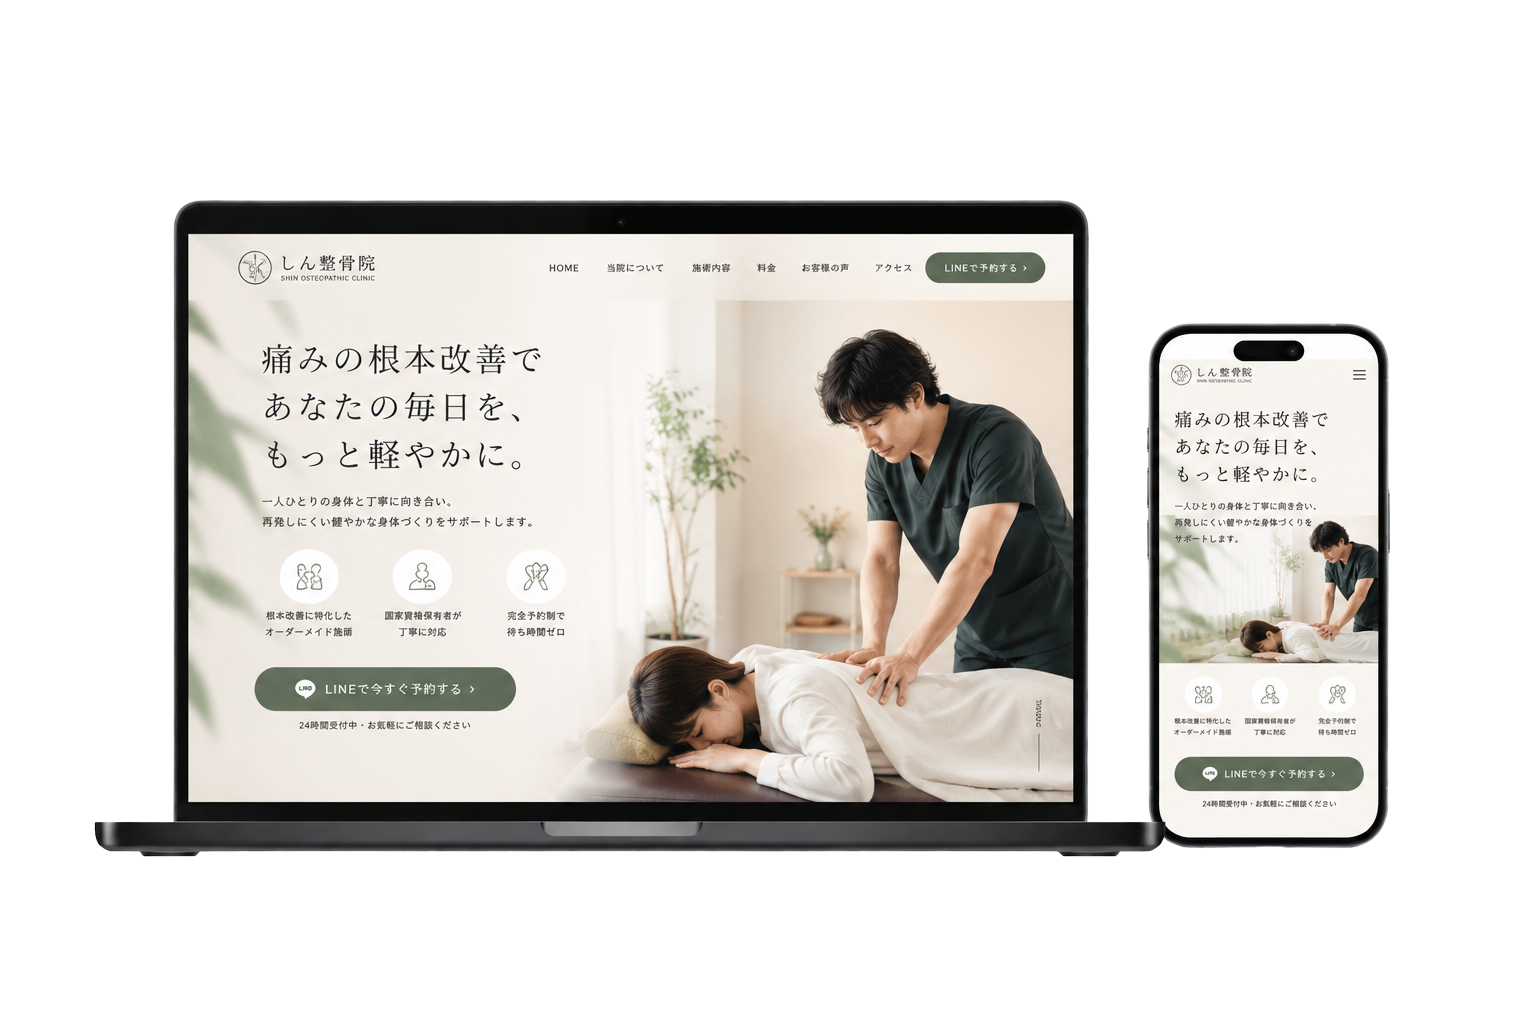
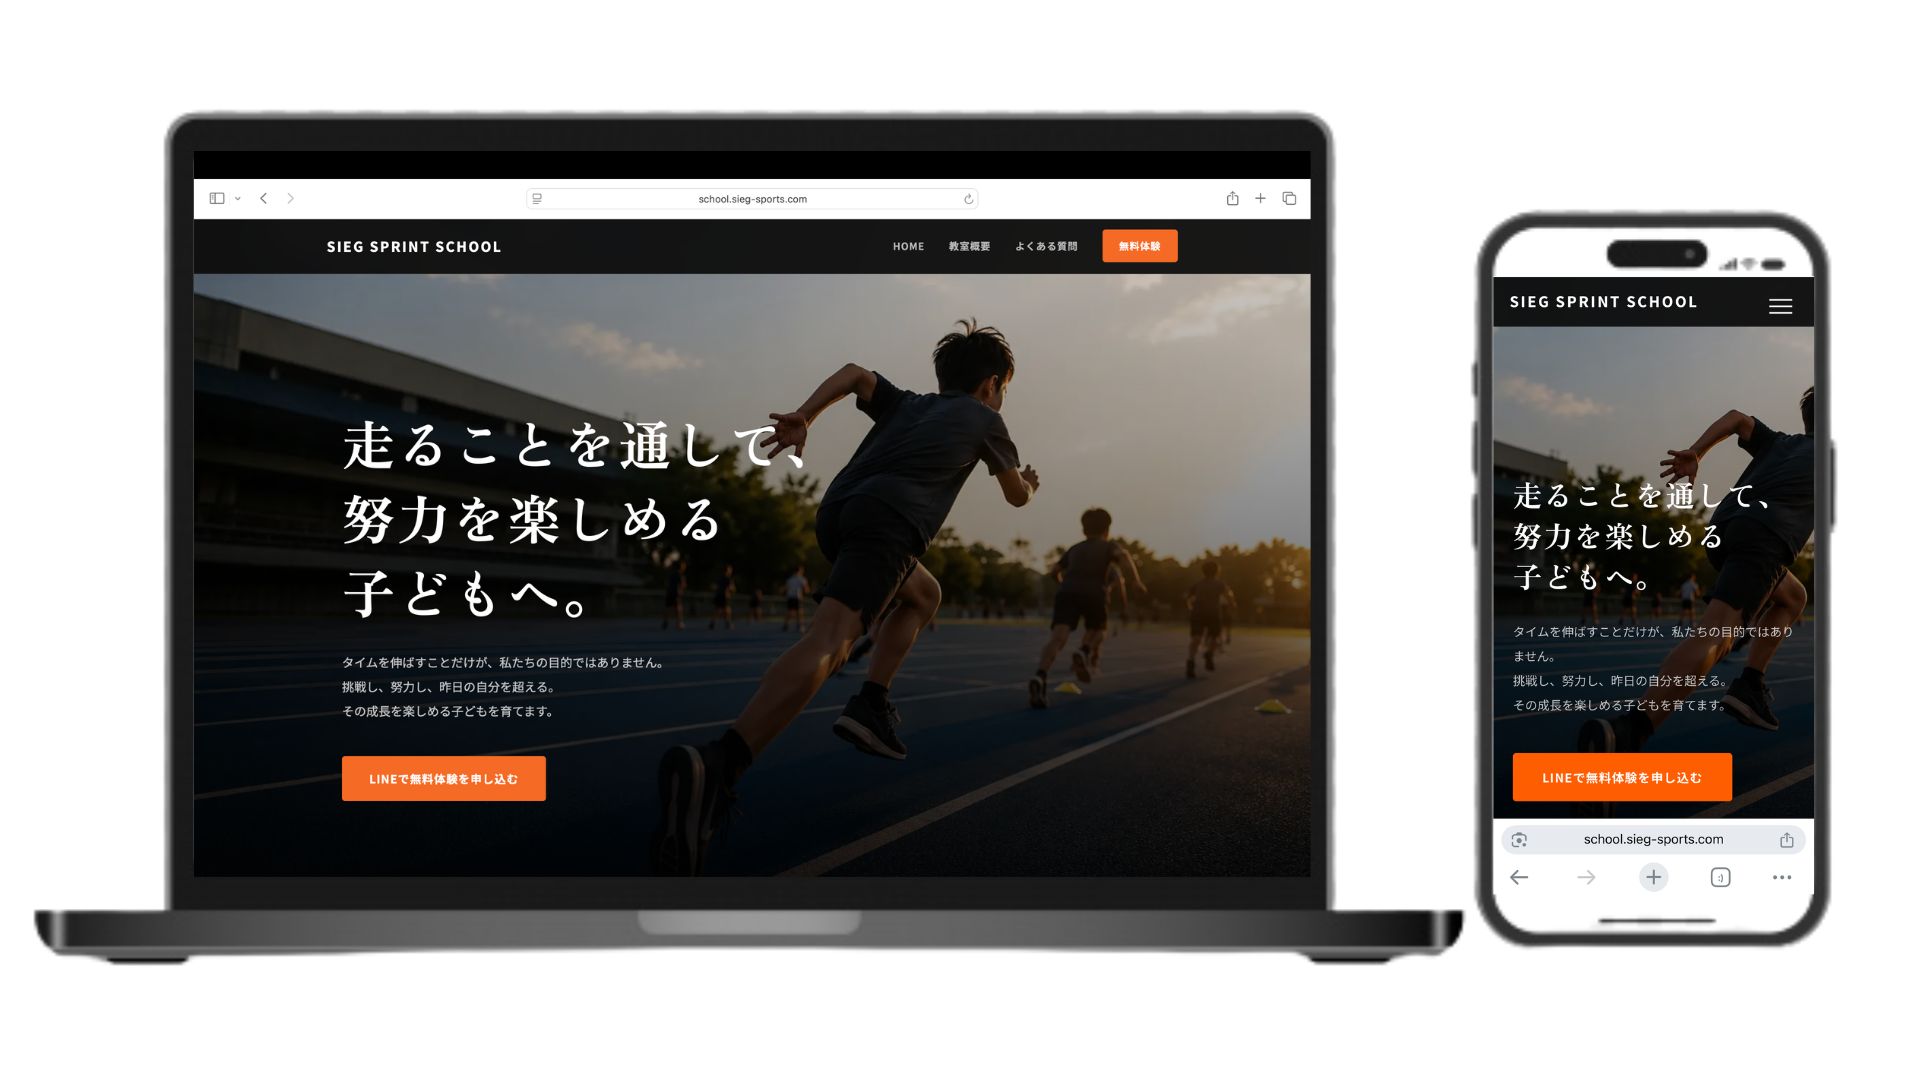
change image

diff --git a/public/works-school.html b/public/works-school.html
@@ -1,0 +1,257 @@
+<!DOCTYPE html>
+<html lang="ja">
+<head>
+  <meta charset="UTF-8">
+  <!-- Google tag (gtag.js) -->
+<script async src="https://www.googletagmanager.com/gtag/js?id=G-X4SGRPRGL5"></script>
+<script>
+  window.dataLayer = window.dataLayer || [];
+  function gtag(){dataLayer.push(arguments);}
+  gtag('js', new Date());
+
+  gtag('config', 'G-X4SGRPRGL5');
+</script>
+  <meta name="viewport" content="width=device-width, initial-scale=1.0">
+
+  <title>スプリントスクールWebサイト制作実績 | SIEG CREATE</title>
+  <meta name="description" content="小中学生向けスプリントスクールSIEG SPORTS Sprint Schoolの公式Webサイト制作実績です。">
+
+  <link rel="stylesheet" href="css/style.css">
+</head>
+
+<body>
+
+<header class="site-header">
+  <a href="index.html" class="logo">
+    <span>SIEG CREATE</span>
+  </a>
+
+  <nav class="nav">
+    <a href="/#service">Service</a>
+    <a href="/#works">Works</a>
+    <a href="/#about">About</a>
+    <a href="/#contact">Contact</a>
+  </nav>
+
+  <button class="menu-toggle" type="button">
+    <span></span>
+    <span></span>
+  </button>
+
+  <a href="contact.html" class="header-btn">無料相談</a>
+</header>
+
+<main>
+
+  <section class="work-detail-hero">
+    <p class="section-label">WORKS / WEB SITE</p>
+
+    <h1>
+      WEB
+      SITE
+    </h1>
+
+    <p class="work-detail-lead">
+      スクールの魅力と成長を伝える<br>
+      スプリントスクール公式Webサイト
+    </p>
+    
+    <p class="work-detail-text">
+      小中学生向けスプリントスクールの公式Webサイトを制作しました。<br>
+      スクールの特徴、指導方針、成長実績、保護者の声、よくある質問をまとめ、
+      初めて訪れた保護者の方が安心して無料体験へ申し込めるサイトを目指しました。
+    </p>
+    <div class="work-detail-image">
+      <img src="images/work-03.png" alt="SIEG SPORTS Sprint School Webサイト">
+    </div>
+  </section>
+
+  <section class="work-detail-section">
+    <p class="section-label">PROJECT</p>
+
+    <h2>プロジェクト概要</h2>
+
+    <p class="work-detail-text">
+      SIEG SPORTSスプリントスクールは、小中学生を対象としたスプリントスクールです。<br><br>
+      速く走るための技術を身につけるだけでなく、
+      目標を決め、努力し、成長を実感する楽しさを伝えることを大切にしています。<br><br>
+      スクールの特徴や指導方針、実際のタイム向上、保護者の声、教室情報を整理し、
+      スクールの魅力と安心感が伝わる構成にしています。
+    </p>
+  </section>
+
+  <section class="work-detail-section mint">
+    <p class="section-label">CHALLENGE</p>
+
+    <h2>課題</h2>
+
+    <div class="problem-grid">
+      <div class="problem-card">スクール独自の特徴が十分に伝わっていない</div>
+      <div class="problem-card">子どもがどのように成長できるのか分かりにくい</div>
+      <div class="problem-card">保護者が安心して検討できる情報が不足している</div>
+      <div class="problem-card">教室内容を探しにくい</div>
+      <div class="problem-card">無料体験までの導線が分かりにくい</div>
+    </div>
+  </section>
+
+  <section class="work-detail-section">
+    <p class="section-label">SOLUTION</p>
+
+    <h2>実装内容</h2>
+
+    <div class="feature-grid">
+      <div class="feature-card">
+        <span>01</span>
+        <h3>ファーストビュー</h3>
+        <p>子どもたちが走る写真を大きく使い、スクールの明るさや躍動感が伝わるトップ画面を設計。</p>
+      </div>
+      
+      <div class="feature-card">
+        <span>02</span>
+        <h3>スクール紹介</h3>
+        <p>スクールの考え方や指導方針、対象となる子どもについて分かりやすく整理。</p>
+      </div>
+      
+      <div class="feature-card">
+        <span>03</span>
+        <h3>3つの特徴</h3>
+        <p>SIEG SPORTS監修、成長記録システム、毎月の50m測定という独自の強みを掲載。</p>
+      </div>
+      
+      <div class="feature-card">
+        <span>04</span>
+        <h3>成長実績</h3>
+        <p>実際の50mタイムの変化を数字で掲載し、子どもたちの成長を具体的に可視化。</p>
+      </div>
+      
+      <div class="feature-card">
+        <span>05</span>
+        <h3>保護者の声</h3>
+        <p>実際に通う子どもの保護者から寄せられた声を掲載し、検討時の安心感につながる構成に。</p>
+      </div>
+      
+      <div class="feature-card">
+        <span>06</span>
+        <h3>無料体験導線</h3>
+        <p>各セクションから無料体験へ進める導線を設け、迷わず申し込みできる流れを整備。</p>
+      </div>
+    </div>
+  </section>
+
+  <section class="work-detail-section mint">
+    <p class="section-label">DESIGN</p>
+
+    <h2>デザインコンセプト</h2>
+
+    <p class="work-detail-text">
+        「信頼感」「上質さ」「成長」をテーマに設計しました。<br><br>
+        写真を大きく見せるレイアウトと余白を活かし、スポーツスクールらしい躍動感を残しながらも、
+        落ち着きと高級感のあるデザインに仕上げています。
+        
+    </p>
+  </section>
+
+  <section class="work-detail-section">
+    <p class="section-label">POINT</p>
+
+    <h2>制作ポイント</h2>
+
+    <p class="work-detail-text">
+      スクールの雰囲気だけではなく、実際の成長が伝わることを重視しました。<br><br>
+      指導方針、スクールの特徴、50mのタイム向上、保護者の声、よくある質問までを一つのサイトに集約し、
+      初めて訪れた方がスクールについて順番に理解できる導線を設計しています。<br><br>
+      また、保護者の方がスマートフォンから閲覧することを前提に、
+      見やすさと無料体験への申し込みやすさにも配慮しました。
+    </p>
+  </section>
+
+  <section class="work-detail-section mint">
+    <p class="section-label">RESULT</p>
+
+    <h2>得られた効果</h2>
+
+    <div class="problem-grid">
+      <div class="problem-card">スクール独自の特徴を明確化</div>
+      <div class="problem-card">子どもたちの成長を数字で可視化</div>
+      <div class="problem-card">保護者の声による安心感の向上</div>
+      <div class="problem-card">教室内容を整理</div>
+      <div class="problem-card">無料体験への申し込み導線を整備</div>
+    </div>
+  </section>
+
+  <section class="work-detail-section">
+    <p class="section-label">MESSAGE</p>
+
+    <h2>
+      スクール運営を知っているからこそ<br>
+      作れるWebサイト
+    </h2>
+
+    <p class="work-detail-text">
+      SIEG SPORTSスプリントスクールは私自身が運営しているスクールです。<br><br>
+      実際に保護者の方から寄せられる質問や、体験申し込み前に感じる不安を把握しているからこそ、
+      必要な情報と導線を現場目線で設計しています。
+    </p>
+  </section>
+
+  <section class="work-detail-cta">
+    <h2>
+      スクール運営の経験を活かし、<br>
+      現場目線でWebサイトを制作します。
+    </h2>
+
+    <p>
+      スポーツスクール・クラブ・教室運営者様向けの<br>
+      Webサイト制作も対応しています。
+    </p>
+
+    <a href="contact.html" class="contact-btn">
+      お問い合わせはこちら
+    </a>
+  </section>
+
+</main>
+
+<footer class="site-footer">
+  <div class="footer-top">
+    <div class="footer-brand">
+      <h2>SIEG CREATE</h2>
+      <p>事業を伸ばすWeb導線を、<br>現場目線で。</p>
+    </div>
+
+    <nav class="footer-nav">
+      <a href="index.html#service">Service</a>
+      <a href="index.html#works">Works</a>
+      <a href="index.html#about">About</a>
+      <a href="index.html#contact">Contact</a>
+    </nav>
+  </div>
+
+    <div class="footer-bottom">
+      <p>© 2026 SIEG CREATE</p>
+  
+      <a href="privacy.html">
+        プライバシーポリシー
+      </a>
+    </div>
+  
+  
+</footer>
+
+</body>
+
+<script>
+  const menuBtn = document.querySelector('.menu-toggle');
+const nav = document.querySelector('.nav');
+
+menuBtn.addEventListener('click', () => {
+  nav.classList.toggle('open');
+});
+
+document.querySelectorAll('.nav a').forEach(link => {
+  link.addEventListener('click', () => {
+    nav.classList.remove('open');
+  });
+});
+  </script>
+</html>

diff --git a/public/index.html b/public/index.html
@@ -312,12 +312,30 @@
             </div>
       
           </a>
-      
+
           <!-- 03 -->
+<a href="works-school.html" class="work-card">
+
+  <div class="work-image work-image03">
+    <img src="images/work-03.png" alt="Sprint School">
+    <span class="work-tag">WEB SITE</span>
+  </div>
+
+  <div class="work-info">
+    <p class="work-category">SPORTS SCHOOL</p>
+
+    <p>
+      スプリントスクール公式サイト
+    </p>
+  </div>
+
+</a>
+      
+          <!-- 04 -->
           <a href="works-lp.html" class="work-card">
       
             <div class="work-image work-image03">
-                <img src="images/work-03.png" alt="Landing Page">
+                <img src="images/work-04.png" alt="Landing Page">
               <span class="work-tag">LP DESIGN</span>
             </div>
       

diff --git a/public/works-lp.html b/public/works-lp.html
@@ -65,7 +65,7 @@
     </p>
 
     <div class="work-detail-image">
-      <img src="images/work-03.png" alt="整骨院LPデザイン案">
+      <img src="images/work-04.png" alt="整骨院LPデザイン案">
     </div>
   </section>
 
